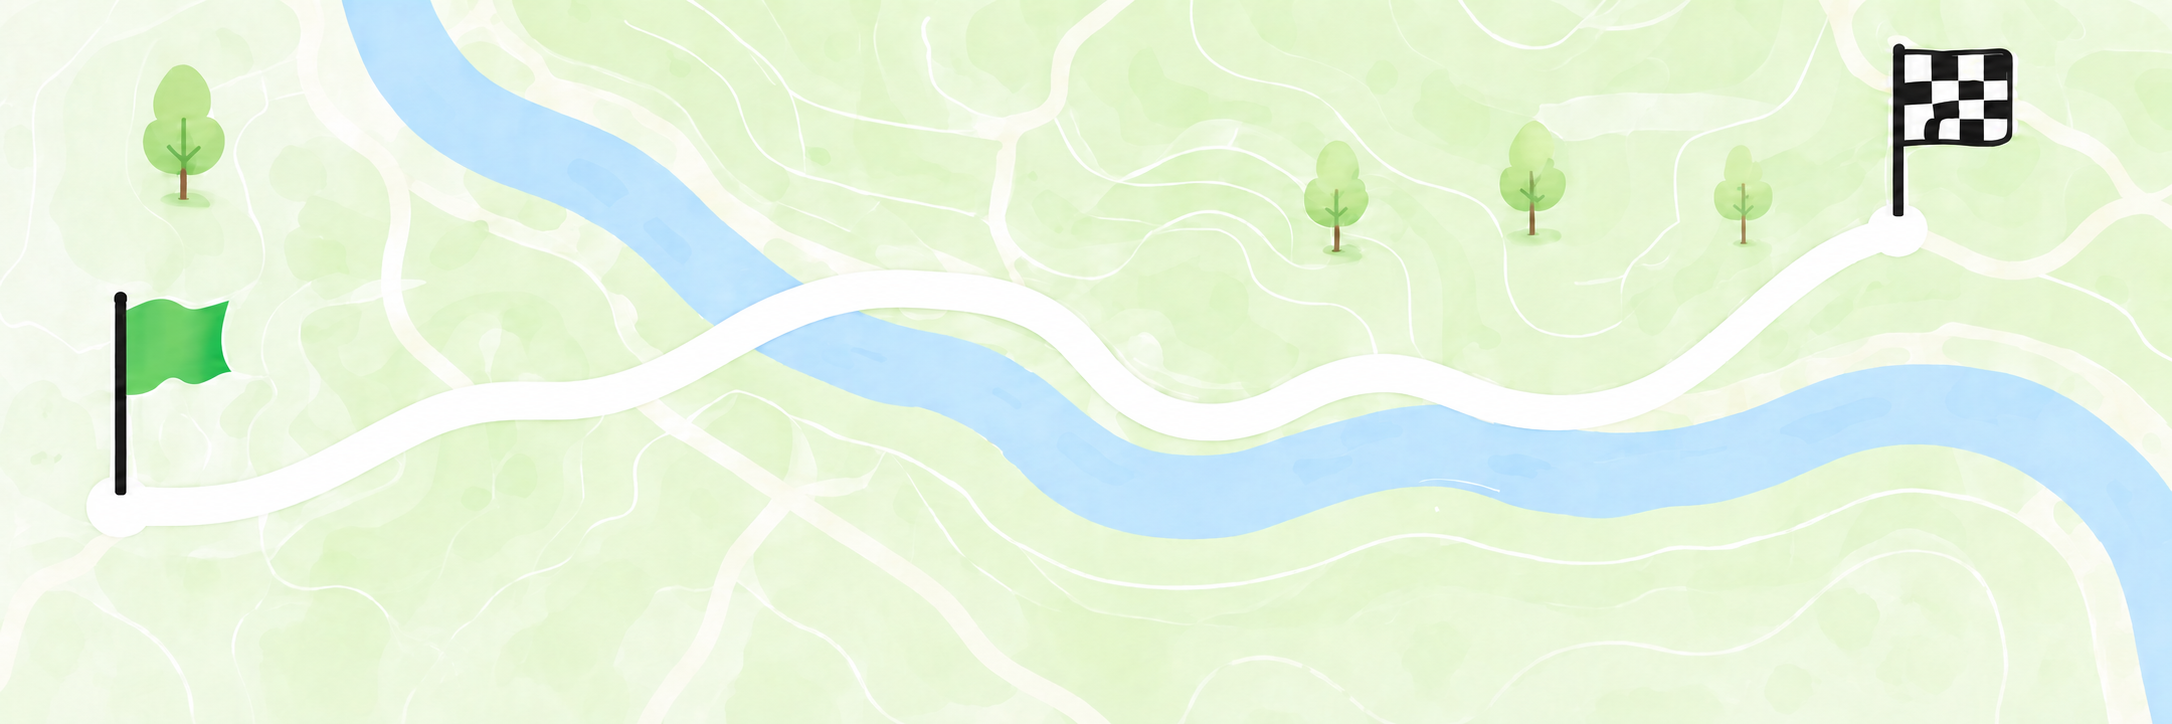
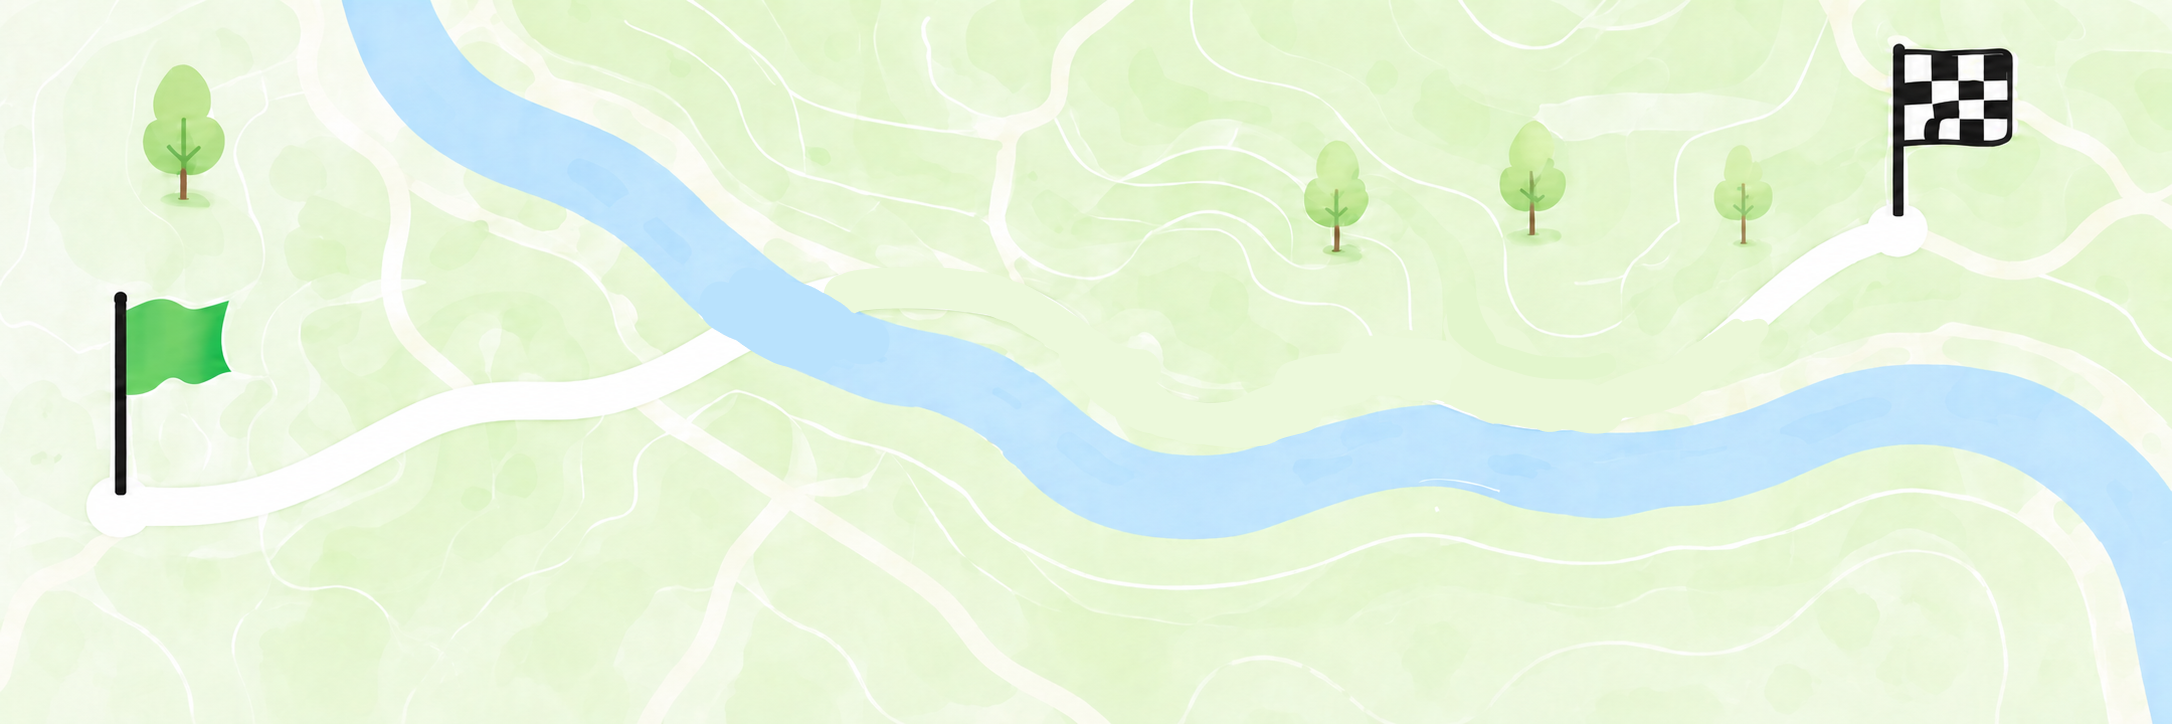
달리기 홈 코스 진행률 시각화 + 참여 예약 확인 모달
- 코스 진행률 미니맵(신규 RunningCourseMini): 지도 사진(course-map.png) 위에
  SVG 코스를 겹쳐 진행률(0~100%)만큼 초록으로 채우고 위치 핀·%배지가 도로를 따라 이동.
  · pathLength=1 정규화 + dashoffset(1-p) 로 채우기 → 첫 렌더부터 %와 정확히 일치
  · object-cover(object-top) 이미지와 동일 crop(slice)으로 정합, 핀은 실측 crop 변환으로 도로 위 배치
  · 첫 진입 시 0→목표% 채우기 애니(0.9s), reduced-motion 은 즉시
  · 결승 깃발 아래로 100% 끝점 정렬 + object-top 으로 깃발 상단 잘림 해결
  · %배지는 핀을 따라다니며 상단 근처(결승)면 아래로 뒤집어 잘림·겹침 방지
  · RunningHome 기존 단순 MapPin 오버레이 → 코스맵으로 교체(레이아웃 크기 유지)
- 결승 깃발 포함 새 지도 이미지로 course-map.png 교체
- 주간 스트릭 카드: 레퍼런스 레이아웃(불꽃 주황 원+제목 상단 / N일 연속 / 요일 원),
  반폭 카드 요일 원 7개 넉넉히(18px), 월~일 7일 모두 표시(메인 초록/서브 앰버/미운영 회색)
- 참여 예약 확인: 브라우저 window.confirm → 공용 ConfirmModal 커스텀 UI(ProgramDetailModal)

Changed region(s): [[0.3085, 0.3646, 0.8329, 0.6077]]

diff --git a/src/components/program/RunningCourseMini.jsx b/src/components/program/RunningCourseMini.jsx
@@ -1,0 +1,145 @@
+import { useRef, useEffect, useState, useCallback } from 'react'
+
+// 달리기 코스 진행 오버레이 — 지도 사진(course-map.png) 위에 겹쳐 그린다.
+//   · COURSE 경로는 지도 이미지 속 흰 도로 좌표(원본 2172×724px)에 맞춰 그림.
+//   · 진행 라인은 pathLength=1 정규화 + strokeDashoffset(1-p) 로 시작점부터 정확히 p 만큼 채움.
+//     선언적(React style)이라 첫 렌더부터 %와 일치 — dash 미설정으로 인한 "풀 그린 플래시" 없음.
+//   · 위치 핀(teardrop)은 getPointAtLength 로 도로 위 좌표를 구해 이동. 지도는 object-cover 유지,
+//     SVG 도 preserveAspectRatio="slice"(동일 크롭) → 핀은 컨테이너 실측 crop 변환으로 정확히 정합.
+//   · dashoffset/핀좌표에 0.75s ease 트랜지션. 초기 마운트·reduced-motion 은 즉시 반영(튐 방지).
+//   props: progress(0~100, 서버 계산값), showTest(데모 +25% 버튼), className
+const BRAND = '#22A45C'
+const EASE = 'cubic-bezier(.4,0,.2,1)'
+const DUR = '0.9s'
+// 지도 이미지 원본 픽셀 기준 (public/illustrations/themes/running/course-map.png = 2172×724)
+const VB_W = 2172
+const VB_H = 724
+// 선 두께(사용자 단위). 지도폭≈208px, scale≈0.096 기준 46 → 렌더 약 4.4px.
+const STROKE = 46
+// 흰 도로 중심선: 좌하(출발) → 우상(결승 깃발 아래 도로 knob). 이미지 도로 좌표를 추적해 맞춤.
+const COURSE = 'M 103 525 C 300 470 420 435 543 421 C 660 407 720 340 847 322 C 950 310 1000 322 1090 350 C 1150 370 1200 372 1280 360 C 1380 348 1450 330 1553 315 C 1650 302 1800 255 1900 235'
+
+const clamp = (v) => Math.max(0, Math.min(1, v))
+const reduceMotion = () => !!window.matchMedia?.('(prefers-reduced-motion: reduce)')?.matches
+
+function RunningCourseMini({ progress = 0, showTest = false, className = '' }) {
+  const [demoP, setDemoP] = useState(null)   // 데모 버튼으로 덮어쓴 진행률(없으면 실제값 사용)
+  const [animP, setAnimP] = useState(0)       // 실제 렌더 진행률 — 최초 로드 시 0→목표 채우기 애니
+  const [badgeBelow, setBadgeBelow] = useState(false) // 핀이 상단 근처(결승)면 %배지를 아래로
+  const p = demoP != null ? demoP : clamp((progress || 0) / 100) // 목표 진행률
+  const pct = Math.round(animP * 100)
+
+  const wrapRef = useRef(null)      // 오버레이 컨테이너(= 지도 영역, 실측용)
+  const fillRef = useRef(null)      // 진행(초록) path — getTotalLength/getPointAtLength 용
+  const pinRef = useRef(null)       // 위치 핀 wrapper(HTML, 픽셀좌표)
+  const pinMountedRef = useRef(false)
+  const pRef = useRef(animP)
+  pRef.current = animP
+
+  // 핀 위치(도로 위 좌표) 갱신 — object-cover/slice 와 동일 crop 변환. withTransition=false 면 즉시.
+  const positionPin = useCallback((withTransition) => {
+    const wrap = wrapRef.current, path = fillRef.current, pin = pinRef.current
+    if (!wrap || !path || !pin) return
+    const L = path.getTotalLength()
+    if (!L) { requestAnimationFrame(() => positionPin(withTransition)); return } // 레이아웃 전이면 재시도
+    const pt = path.getPointAtLength(L * pRef.current)
+    const r = wrap.getBoundingClientRect()
+    const w = r.width || 1, h = r.height || 1
+    const scale = Math.max(w / VB_W, h / VB_H)
+    const ox = (w - VB_W * scale) / 2
+    const oy = 0 // 상단 정렬(이미지 object-top / SVG xMidYMin 과 일치) — 결승 깃발 상단 안 잘리게
+    const px = ox + pt.x * scale
+    const py = oy + pt.y * scale
+    setBadgeBelow(py < 30) // 핀이 컨테이너 상단 30px 이내면 배지가 위로 잘리므로 아래로 뒤집음
+    if (!withTransition) pin.style.transition = 'none'
+    pin.style.left = `${px}px`
+    pin.style.top = `${py}px`
+    if (!withTransition) {
+      pin.getBoundingClientRect() // reflush
+      if (!reduceMotion()) pin.style.transition = `left ${DUR} ${EASE}, top ${DUR} ${EASE}`
+    }
+  }, [])
+
+  // 목표(p) 변경 → animP 를 목표로 이동. 최초 마운트는 animP=0 에서 시작하므로 첫 진입 시 0→목표
+  //   채우기 애니가 재생됨. rAF 로 다음 프레임에 값 변경 → 첫 프레임(0%)이 그려진 뒤 트랜지션이 걸림.
+  //   reduced-motion 은 즉시(애니 없음).
+  useEffect(() => {
+    if (reduceMotion()) { setAnimP(p); return }
+    const id = requestAnimationFrame(() => setAnimP(p))
+    return () => cancelAnimationFrame(id)
+  }, [p])
+
+  // animP(렌더 진행률) 변경 → 핀 위치 갱신. 첫 세팅(0%)·reduced-motion 은 즉시, 이후 트랜지션.
+  useEffect(() => {
+    positionPin(pinMountedRef.current && !reduceMotion())
+    pinMountedRef.current = true
+  }, [animP, positionPin])
+
+  // 컨테이너 크기 변동(회전/레이아웃) 시 즉시 재배치
+  useEffect(() => {
+    const wrap = wrapRef.current
+    if (!wrap || typeof ResizeObserver === 'undefined') return
+    const ro = new ResizeObserver(() => positionPin(false))
+    ro.observe(wrap)
+    return () => ro.disconnect()
+  }, [positionPin])
+
+  const onTest = useCallback(() => {
+    setDemoP((prev) => {
+      const base = prev != null ? prev : clamp((progress || 0) / 100)
+      const next = Math.round((base + 0.25) * 4) / 4
+      return next > 1.0001 ? 0 : Math.min(1, next)
+    })
+  }, [progress])
+
+  const fillTransition = reduceMotion() ? 'none' : `stroke-dashoffset ${DUR} ${EASE}`
+
+  return (
+    <div ref={wrapRef} className={`absolute inset-0 overflow-hidden ${className}`}>
+      {/* 코스 라인 — 지도(object-cover)와 동일 crop(slice)으로 겹침. 늘어나도 선 두께 유지 */}
+      <svg
+        viewBox={`0 0 ${VB_W} ${VB_H}`}
+        preserveAspectRatio="xMidYMin slice"
+        className="absolute inset-0 w-full h-full"
+        role="img"
+        aria-label={`코스 진행률 ${pct}%`}
+      >
+        {/* 베이스(아직 안 지난 구간) — 흰색. 두께는 사용자 단위(≈렌더 4.4px). non-scaling-stroke 는
+            dash 단위를 화면 px 로 바꿔 pathLength 채우기를 깨므로 사용하지 않음 */}
+        <path d={COURSE} fill="none" stroke="#FFFFFF" strokeWidth={STROKE} strokeLinecap="round" strokeLinejoin="round" />
+        {/* 진행 라인 — pathLength=1 정규화, dashoffset(1-p) 로 정확히 p 만큼 채움(선언적) */}
+        <path ref={fillRef} d={COURSE} fill="none" stroke={BRAND} strokeWidth={STROKE} strokeLinecap="round" strokeLinejoin="round"
+          pathLength={1}
+          style={{ strokeDasharray: 1, strokeDashoffset: 1 - animP, transition: fillTransition }} />
+      </svg>
+
+      {/* 위치 핀 + %배지 — 도로 위 좌표를 따라다님. wrapper 원점(left/top)=핀 tip 좌표 */}
+      <div ref={pinRef} className="absolute">
+        {/* 핀 — tip 이 wrapper 원점(0,0)에 오도록 translate(-50%,-100%) */}
+        <svg width="15" height="19" viewBox="0 0 15 19" className="absolute drop-shadow" style={{ transform: 'translate(-50%, -100%)' }}>
+          <path d="M7.5,19 C4,12 0,10 0,6 A7.5,7.5 0 1 1 15,6 C15,10 11,12 7.5,19 Z" fill={BRAND} stroke="#FFFFFF" strokeWidth="1.5" />
+          <circle cx="7.5" cy="6" r="2.7" fill="#FFFFFF" />
+        </svg>
+        {/* %배지 — 기본은 핀 위, 상단 근처(결승)면 tip 아래로 뒤집어 잘림·깃발 겹침 방지 */}
+        <span
+          className="absolute px-1 py-[1px] rounded-full bg-white/90 backdrop-blur text-[9px] font-extrabold text-emerald-600 tabular-nums leading-none shadow-sm whitespace-nowrap"
+          style={{ transform: badgeBelow ? 'translate(-50%, 4px)' : 'translate(-50%, calc(-100% - 20px))' }}
+        >
+          {pct}%
+        </span>
+      </div>
+
+      {showTest && (
+        <button
+          type="button"
+          onClick={onTest}
+          className="absolute bottom-1.5 right-1.5 text-[10px] font-bold text-white bg-emerald-600/90 hover:bg-emerald-600 rounded-full px-2 py-1 shadow transition"
+        >
+          +25% ({pct}%)
+        </button>
+      )}
+    </div>
+  )
+}
+
+export default RunningCourseMini

diff --git a/src/components/program/WeeklyStreak.jsx b/src/components/program/WeeklyStreak.jsx
@@ -152,7 +152,8 @@ const WeeklyStreak = forwardRef(function WeeklyStreak({ count = 0, days = [], ic
     </span>
   )
 
-  // 요일 동그라미들 (도장 연출 포함) — card/wide 공용
+  // 요일 동그라미들 (도장 연출 포함) — card/wide 공용. 반폭 카드는 7개 넉넉히 들어가게 살짝 작게.
+  const cellSize = variant === 'wide' ? 'w-5 h-5' : 'w-[18px] h-[18px]'
   const dayCells = days.map((d, i) => {
     const done = cellDone(i)
     const stamping = stampIdx === i
@@ -161,7 +162,7 @@ const WeeklyStreak = forwardRef(function WeeklyStreak({ count = 0, days = [], ic
       <div key={i} className="relative flex flex-col items-center gap-1">
         <motion.span
           animate={stamping ? cellCtrl : undefined}
-          className="relative w-5 h-5 rounded-full flex items-center justify-center"
+          className={`relative ${cellSize} rounded-full flex items-center justify-center`}
           style={{ backgroundColor: done ? col : '#F3F4F6', color: done ? '#fff' : '#D1D5DB' }}
         >
           {stamping && impacted && (
@@ -195,7 +196,7 @@ const WeeklyStreak = forwardRef(function WeeklyStreak({ count = 0, days = [], ic
 
         {stamping && (
           <motion.span
-            className="absolute top-0 left-1/2 -translate-x-1/2 w-5 h-5 rounded-full flex items-center justify-center pointer-events-none"
+            className={`absolute top-0 left-1/2 -translate-x-1/2 ${cellSize} rounded-full flex items-center justify-center pointer-events-none`}
             style={{ backgroundColor: col, color: '#fff', boxShadow: `0 4px 10px ${col}80` }}
             initial={{ y: -34, scale: 1.9, rotate: -14, opacity: 0 }}
             animate={stampCtrl}
@@ -244,15 +245,16 @@ const WeeklyStreak = forwardRef(function WeeklyStreak({ count = 0, days = [], ic
             </div>
           </div>
         ) : (
+          // 레퍼런스 — [불꽃(주황 원)+제목] 상단 / N일 연속 성공 중 / 요일 원
           <>
-            <div className="flex items-start gap-2.5">
-              {flameEl}
-              <div className="min-w-0 flex-1">
-                <span className="text-[12px] font-bold text-gray-700">주간 스트릭</span>
-                <p className="text-[11px] text-gray-500 mt-1.5">{streak}일 연속 달성 중</p>
-              </div>
+            <div className="flex items-center gap-2">
+              <span className="w-8 h-8 rounded-full bg-orange-50 flex items-center justify-center flex-shrink-0">
+                <motion.span animate={flameCtrl} style={{ transformOrigin: '50% 90%', display: 'inline-flex' }}>{icon}</motion.span>
+              </span>
+              <span className="text-[13px] font-bold text-gray-800">주간 스트릭</span>
             </div>
-            <div className="flex items-center justify-between px-1 mt-3">{dayCells}</div>
+            <p className="text-[11px] text-gray-500 mt-1.5">{streak}일 연속 성공 중</p>
+            <div className="flex items-center justify-between mt-3">{dayCells}</div>
           </>
         )}
 

diff --git a/src/components/program/ProgramDetailModal.jsx b/src/components/program/ProgramDetailModal.jsx
@@ -10,6 +10,7 @@ import { CATEGORY } from '../../lib/constants'
 import { queryKeys, fetchProgramJoinInfo } from '../../lib/queries'
 import ProgramCover from '../common/ProgramCover'
 import UserAvatar from '../common/UserAvatar'
+import ConfirmModal from '../common/ConfirmModal'
 
 // 참여 상태: 'loading' | 'owner' | 'active' | 'pending' | 'rejected' | 'none'
 // Day 65 본인 결정 — 모달 UX 강화 (베타 첫 인상):
@@ -26,6 +27,7 @@ function ProgramDetailModal({ program, isOpen, onClose, onPrev, onNext }) {
   const [isJoining, setIsJoining] = useState(false)
   const [joinError, setJoinError] = useState(null)
   const [justJoined, setJustJoined] = useState(false)
+  const [reserveMsg, setReserveMsg] = useState(null)  // 참여 예약 확인 모달
 
   // APPROVAL 입장 답변
   const [entryAnswer, setEntryAnswer] = useState('')
@@ -116,10 +118,9 @@ function ProgramDetailModal({ program, isOpen, onClose, onPrev, onNext }) {
   const handleReserve = () => {
     const isApproval = program?.join_type === 'APPROVAL'
     const msg = isApproval
-      ? '참여를 예약 신청하시겠습니까?\n운영자 승인 후, 시작일에 자동으로 참여돼요.'
-      : `프로그램 참여를 예약하시겠습니까?\n${formatKoreanDate(program?.start_date)} 시작일에 자동으로 참여돼요.`
-    if (!window.confirm(msg)) return
-    handleJoin()
+      ? '운영자 승인 후, 시작일에 자동으로 참여돼요.'
+      : `${formatKoreanDate(program?.start_date)} 시작일에 자동으로 참여돼요.`
+    setReserveMsg(msg)
   }
 
   // 참여 상태 조회
@@ -212,6 +213,7 @@ function ProgramDetailModal({ program, isOpen, onClose, onPrev, onNext }) {
   })()
 
   return (
+    <>
     <Modal isOpen={isOpen} onClose={onClose} onPrev={onPrev} onNext={onNext}>
       {program && (
         <div>
@@ -459,6 +461,18 @@ function ProgramDetailModal({ program, isOpen, onClose, onPrev, onNext }) {
         </div>
       )}
     </Modal>
+
+    {/* 참여 예약 확인 — 브라우저 confirm 대체 커스텀 UI */}
+    <ConfirmModal
+      isOpen={reserveMsg !== null}
+      onClose={() => setReserveMsg(null)}
+      onConfirm={() => { setReserveMsg(null); handleJoin() }}
+      title="프로그램 참여 예약"
+      message={reserveMsg}
+      confirmLabel="예약하기"
+      busy={isJoining}
+    />
+    </>
   )
 }
 

diff --git a/src/components/program/RunningHome.jsx b/src/components/program/RunningHome.jsx
@@ -1,6 +1,7 @@
 import { useState, useRef, useEffect } from 'react'
-import { Timer, Flame, Megaphone, Footprints, Star, ClipboardList, HelpCircle, MessageSquare, ChevronRight, Check, MapPin, Pencil, X } from 'lucide-react'
+import { Timer, Flame, Megaphone, Footprints, Star, ClipboardList, HelpCircle, MessageSquare, ChevronRight, Check, Pencil, X } from 'lucide-react'
 import WeeklyStreak from './WeeklyStreak'
+import RunningCourseMini from './RunningCourseMini'
 import CountUp from '../common/CountUp'
 
 // 달리기 테마 전용 홈(대시보드) — 목업 기준 UI (2026-06-30, v2).
@@ -373,13 +374,11 @@ function RunningHome({
           </div>
           <p className="text-[11px] text-gray-400 leading-snug">{yy(startDate)} ~ {yy(endDate)}</p>
         </div>
-        {/* 우: 코스 맵 (풀블리드, 깃발 2개 보이게) + 진행 위치 핀. 없으면 SVG 폴백 */}
+        {/* 우: 코스 맵(지도 사진 그대로) + 그 위에 코스 진행 라인·핀 오버레이. 사진 없으면 SVG 폴백 */}
         <div className="flex-1 relative bg-gradient-to-br from-emerald-50 to-sky-50">
-          <AssetImg src={`${RUN}/course-map.png`} className="absolute inset-0 w-full h-full object-cover" fallback={<CourseRoute progress={progress} />} />
-          {/* 진행 위치 핀 — 흰 길 위(세로 62%), 양끝 깃발 피해 16~84% 사이 */}
-          <div className="absolute -translate-x-1/2 -translate-y-full transition-all" style={{ left: `${Math.max(16, Math.min(84, progress))}%`, top: '62%' }}>
-            <MapPin className="w-5 h-5 text-emerald-600 fill-emerald-500 drop-shadow" strokeWidth={2} />
-          </div>
+          <AssetImg src={`${RUN}/course-map.png`} className="absolute inset-0 w-full h-full object-cover object-top" fallback={<CourseRoute progress={progress} />} />
+          {/* 진행률(0~100%)만큼 코스가 초록으로 채워지고 위치 핀이 경로를 따라 이동 */}
+          <RunningCourseMini progress={progress} showTest={showStampTest} />
         </div>
       </div>
 

diff --git a/src/pages/program/ProgramDetailPage.jsx b/src/pages/program/ProgramDetailPage.jsx
@@ -148,10 +148,12 @@ function runActiveWeekDays(weekDays, missions) {
     const isMain = m.is_main !== false // 미설정 시 메인 취급
     dows.forEach((d) => { active.add(d); if (isMain) main.add(d) })
   }
-  const src = (weekDays || []).map((d, i) => ({ ...d, dow: i + 1 }))
-  // kind: 해당 요일에 메인 미션이 하나라도 있으면 'main'(초록), 서브만이면 'sub'(앰버)
-  if (active.size === 0) return src.map((d) => ({ ...d, kind: 'main' }))
-  return src.filter((d) => active.has(d.dow)).map((d) => ({ ...d, kind: main.has(d.dow) ? 'main' : 'sub' }))
+  // 월~일 7일 모두 표시. kind: 메인 미션 있는 요일 'main'(초록) / 서브만 'sub'(앰버) / 운영 안 하는 요일 'off'(회색)
+  return (weekDays || []).map((d, i) => {
+    const dow = i + 1
+    const kind = main.has(dow) ? 'main' : active.has(dow) ? 'sub' : (active.size === 0 ? 'main' : 'off')
+    return { ...d, kind }
+  })
 }
 
 function ProgramDetailPage() {
